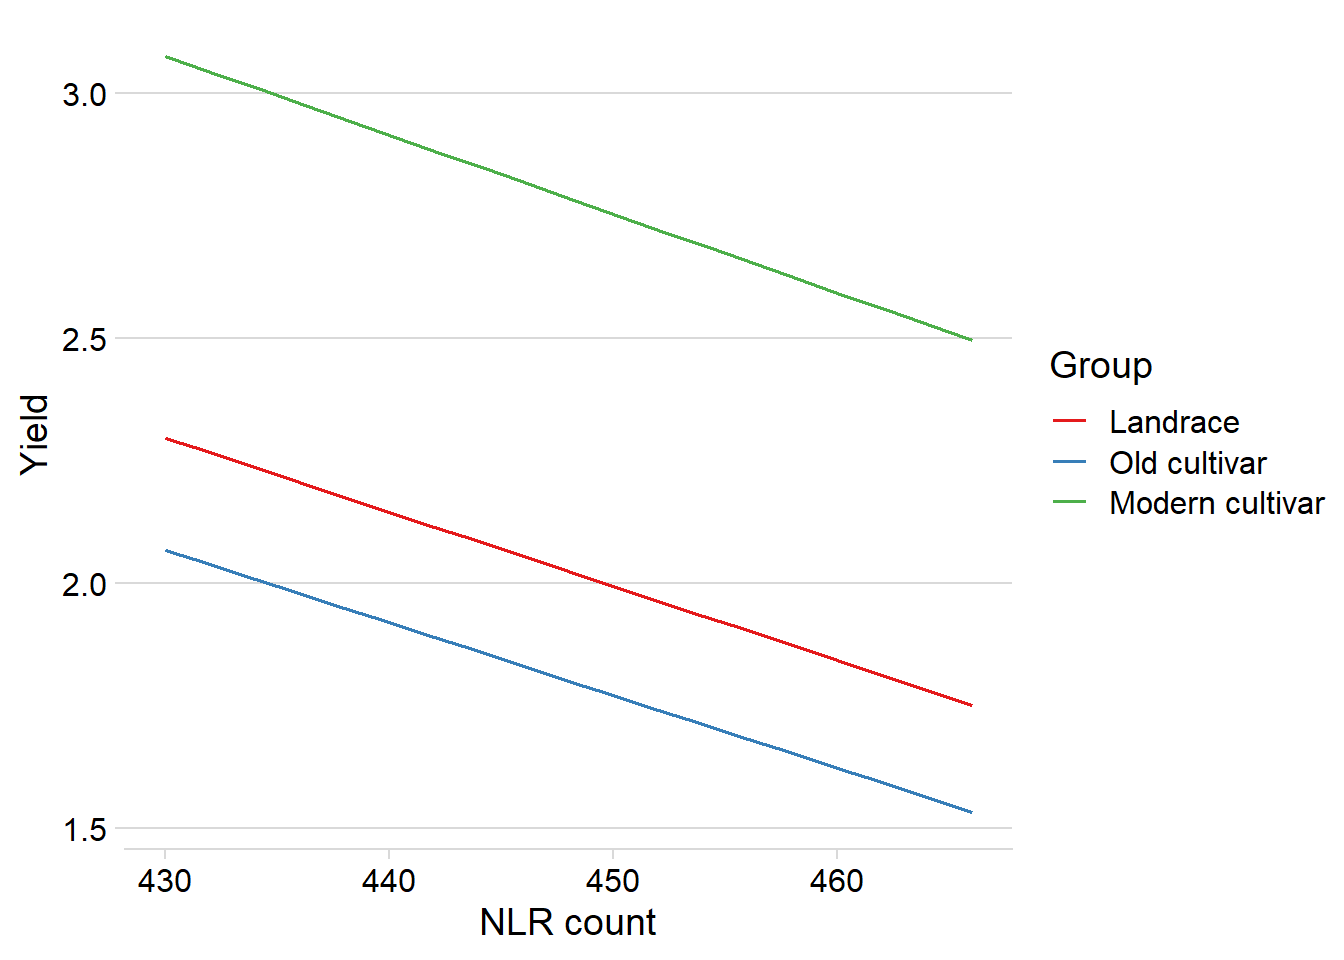
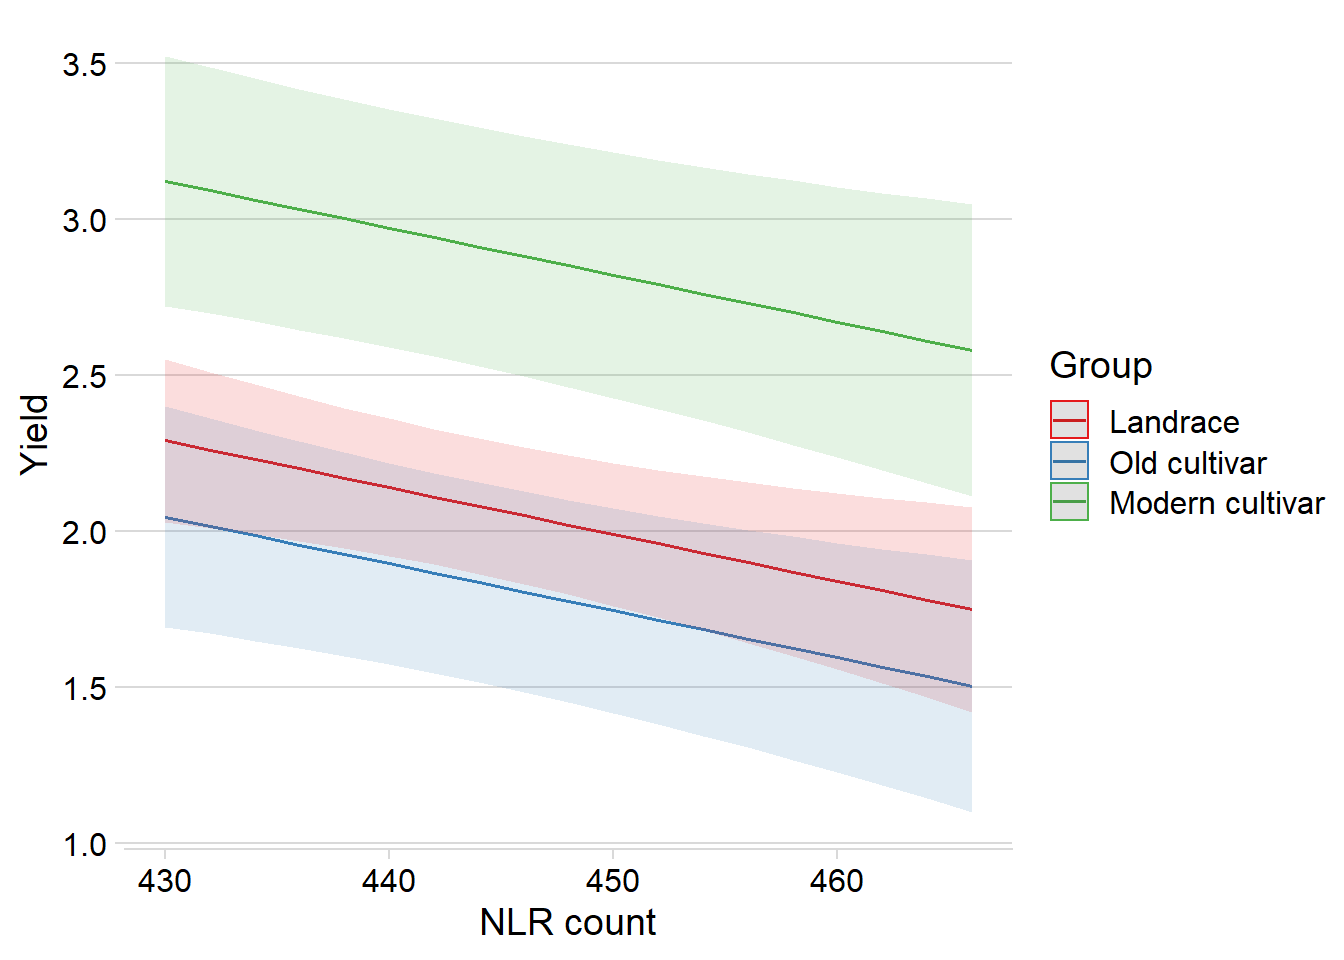
Build site.

diff --git a/docs/yield_link.html b/docs/yield_link.html
@@ -504,16 +504,16 @@ This reproducible <a href="http://rmarkdown.rstudio.com">R Markdown</a> analysis
 <div class="panel panel-default">
 <div class="panel-heading">
 <p class="panel-title">
-<a data-toggle="collapse" data-parent="#workflowr-checks" href="#strongRepositoryversionstrongahrefhttpsgithubcomphilippbayerRgeneanalysistreef0a5bdbe656458a75b326fc0e9ed465edf1c0d73targetblankf0a5bdba"> <span class="glyphicon glyphicon-ok text-success" aria-hidden="true"></span> <strong>Repository version:</strong> <a href="https://github.com/philippbayer/R_gene_analysis/tree/f0a5bdbe656458a75b326fc0e9ed465edf1c0d73" target="_blank">f0a5bdb</a> </a>
+<a data-toggle="collapse" data-parent="#workflowr-checks" href="#strongRepositoryversionstrongahrefhttpsgithubcomphilippbayerRgeneanalysistreeb8b60b1c21cd45444b2d0876b5ceecb692608199targetblankb8b60b1a"> <span class="glyphicon glyphicon-ok text-success" aria-hidden="true"></span> <strong>Repository version:</strong> <a href="https://github.com/philippbayer/R_gene_analysis/tree/b8b60b1c21cd45444b2d0876b5ceecb692608199" target="_blank">b8b60b1</a> </a>
 </p>
 </div>
[2 lines of base64/hex data omitted]
 <div class="panel-body">
 <p>
 Great! You are using Git for version control. Tracking code development and connecting the code version to the results is critical for reproducibility.
 </p>
 <p>
-The results in this page were generated with repository version <a href="https://github.com/philippbayer/R_gene_analysis/tree/f0a5bdbe656458a75b326fc0e9ed465edf1c0d73" target="_blank">f0a5bdb</a>. See the <em>Past versions</em> tab to see a history of the changes made to the R Markdown and HTML files.
+The results in this page were generated with repository version <a href="https://github.com/philippbayer/R_gene_analysis/tree/b8b60b1c21cd45444b2d0876b5ceecb692608199" target="_blank">b8b60b1</a>. See the <em>Past versions</em> tab to see a history of the changes made to the R Markdown and HTML files.
 </p>
 <p>
 Note that you need to be careful to ensure that all relevant files for the analysis have been committed to Git prior to generating the results (you can use <code>wflow_publish</code> or <code>wflow_git_commit</code>). workflowr only checks the R Markdown file, but you know if there are other scripts or data files that it depends on. Below is the status of the Git repository when the results were generated:
@@ -601,6 +601,40 @@ Message
 </tr>
 </thead>
 <tbody>
+<tr>
+<td>
+Rmd
+</td>
+<td>
+<a href="https://github.com/philippbayer/R_gene_analysis/blob/b8b60b1c21cd45444b2d0876b5ceecb692608199/analysis/yield_link.Rmd" target="_blank">b8b60b1</a>
+</td>
+<td>
+Philipp Bayer
+</td>
+<td>
+2020-11-18
+</td>
+<td>
+Add StrengeJacke plots
+</td>
+</tr>
+<tr>
+<td>
+html
+</td>
+<td>
+<a href="https://rawcdn.githack.com/philippbayer/R_gene_analysis/fb8bbfb6325075e2652df0b9c34e26d3654f8348/docs/yield_link.html" target="_blank">fb8bbfb</a>
+</td>
+<td>
+Philipp Bayer
+</td>
+<td>
+2020-11-18
+</td>
+<td>
+Build site.
+</td>
+</tr>
 <tr>
 <td>
 Rmd
@@ -2134,10 +2168,24 @@ qqline(resid(mixed.lmer))</code></pre>
 <pre class="r"><code>detach(&quot;package:lmerTest&quot;, unload=TRUE)
 
 yield_country_nbs_joined_groups_renamed &lt;- yield_country_nbs_joined_groups
-names(yield_country_nbs_joined_groups_renamed) &lt;- c(&#39;names&#39;, &#39;presences.x&#39;, &#39;PI-ID&#39;, &#39;Group&#39;, &#39;presences2&#39;, &#39;presences.y&#39;, &#39;Yield&#39;, &#39;Yield2&#39;, &#39;Country&#39;)
-mixed.lmer &lt;- lmer(Yield ~ presences.x + Group + (1|Country), data=yield_country_nbs_joined_groups_renamed)
-
-dwplot(mixed.lmer,
+names(yield_country_nbs_joined_groups_renamed) &lt;- c(&#39;names&#39;, &#39;Count&#39;, &#39;PI-ID&#39;, &#39;Group&#39;, &#39;presences2.x&#39;, &#39;presences.y&#39;, &#39;Yield&#39;, &#39;Yield2.x&#39;, &#39;Country&#39;)
+mixed.lmer &lt;- lmer(Yield ~ `Count` + Group + (1|Country), data=yield_country_nbs_joined_groups_renamed)
+yield_country_nbs_joined_groups_renamed</code></pre>
+<pre><code># A tibble: 741 x 9
+   names Count `PI-ID` Group presences2.x[,1] presences.y Yield Yield2.x[,1]
+   &lt;chr&gt; &lt;dbl&gt; &lt;chr&gt;   &lt;fct&gt;            &lt;dbl&gt;       &lt;dbl&gt; &lt;dbl&gt;        &lt;dbl&gt;
+ 1 AB-01   445 PI4580~ Land~           -0.119         445  1.54      -0.774 
+ 2 AB-02   454 PI6037~ Land~            1.35          454  1.3       -1.06  
+ 3 For     448 PI5486~ Mode~            0.371         448  3.34       1.40  
+ 4 HN001   448 PI5186~ Mode~            0.371         448  3.54       1.64  
+ 5 HN005   440 PI4041~ Land~           -0.935         440  2.15      -0.0366
+ 6 HN006   448 PI4077~ Land~            0.371         448  2.06      -0.145 
+ 7 HN007   442 PI4242~ Land~           -0.609         442  1.64      -0.653 
+ 8 HN008   439 PI4376~ Land~           -1.10          439  2.51       0.399 
+ 9 HN009   445 PI4950~ Land~           -0.119         445  1.85      -0.399 
+10 HN010   447 PI4689~ Land~            0.207         447  2.8        0.749 
+# ... with 731 more rows, and 1 more variable: Country &lt;chr&gt;</code></pre>
+<pre class="r"><code>dwplot(mixed.lmer,
        vline = geom_vline(xintercept = 0, colour = &quot;grey60&quot;, linetype = 2))</code></pre>
 <p><img src="figure/yield_link.Rmd/unnamed-chunk-73-1.png" width="672" style="display: block; margin: auto;" /></p>
 <pre class="r"><code>library(stargazer)
@@ -2151,7 +2199,7 @@ stargazer(mixed.lmer, type = &quot;text&quot;,
                      -----------------------------
                                  Yield            
 --------------------------------------------------
-presences.x                    -0.015**           
+Count                          -0.015**           
                                 (0.006)           
                                                   
 GroupOld cultivar               -0.245            
@@ -2171,46 +2219,151 @@ Bayesian Inf. Crit.            1714.779
 ==================================================
 Note:                *p&lt;0.05; **p&lt;0.01; ***p&lt;0.001</code></pre>
 <pre class="r"><code>library(ggeffects)
-ggpredict(mixed.lmer, terms = c(&quot;presences.x&quot;,  &#39;Group&#39;), type = &quot;re&quot;) %&gt;% 
+ggpredict(mixed.lmer, terms = c(&quot;Count&quot;,  &#39;Group&#39;), type = &quot;re&quot;) %&gt;% 
    plot() +
    theme_minimal_hgrid() +
-  xlab(&#39;NLR count&#39;) +  theme(plot.title=element_blank())</code></pre>
+   xlab(&#39;NLR count&#39;) +  
+   theme(plot.title=element_blank())</code></pre>
 <p><img src="figure/yield_link.Rmd/unnamed-chunk-75-1.png" width="672" style="display: block; margin: auto;" /></p>
-<pre class="r"><code>mixed.lmer &lt;- lmer(Yield ~ presences.x + (presences.x|Group) + (1|Country), data=yield_country_nbs_joined_groups_renamed)
-summary(mixed.lmer)</code></pre>
-<pre><code>Linear mixed model fit by REML [&#39;lmerMod&#39;]
-Formula: Yield ~ presences.x + (presences.x | Group) + (1 | Country)
-   Data: yield_country_nbs_joined_groups_renamed
-
-REML criterion at convergence: 1679.5
-
-Scaled residuals: 
-     Min       1Q   Median       3Q      Max 
--3.08887 -0.56698  0.03087  0.65972  2.89927 
-
-Random effects:
- Groups   Name        Variance  Std.Dev.  Corr 
- Country  (Intercept) 2.590e-01 0.5089558      
- Group    (Intercept) 6.794e-01 0.8242671      
-          presences.x 4.472e-07 0.0006687 -1.00
- Residual             5.206e-01 0.7215562      
-Number of obs: 741, groups:  Country, 40; Group, 3
-
-Fixed effects:
-             Estimate Std. Error t value
-(Intercept)  9.088288   2.507413   3.625
-presences.x -0.015366   0.005566  -2.761
-
-Correlation of Fixed Effects:
-            (Intr)
-presences.x -0.991
-convergence code: 0
-boundary (singular) fit: see ?isSingular</code></pre>
-<pre class="r"><code>ggpredict(mixed.lmer, terms = c(&quot;presences.x&quot;,  &#39;Group&#39;), type = &quot;re&quot;) %&gt;% 
-   plot() +
-   theme_minimal_hgrid() +
-  xlab(&#39;NLR count&#39;) +  theme(plot.title=element_blank())</code></pre>
+<pre class="r"><code>library(sjPlot)
+plot_model(mixed.lmer, data=yield_country_nbs_joined_groups_renamed) +
+  theme_minimal_hgrid()</code></pre>
+<p><img src="figure/yield_link.Rmd/unnamed-chunk-76-1.png" width="672" style="display: block; margin: auto;" /></p>
+<pre class="r"><code>plot_model(mixed.lmer, type = &quot;pred&quot;, terms = c(&quot;Count&quot;, &quot;Group&quot;)) +
+  theme_minimal_hgrid() +
+  xlab(&#39;NLR count&#39;) + 
+  theme(plot.title=element_blank())</code></pre>
 <p><img src="figure/yield_link.Rmd/unnamed-chunk-77-1.png" width="672" style="display: block; margin: auto;" /></p>
+<pre class="r"><code>tab_model(mixed.lmer)</code></pre>
+<table style="border-collapse:collapse; border:none;">
+<tr>
+<th style="border-top: double; text-align:center; font-style:normal; font-weight:bold; padding:0.2cm;  text-align:left; ">
+ 
+</th>
+<th colspan="3" style="border-top: double; text-align:center; font-style:normal; font-weight:bold; padding:0.2cm; ">
+Yield
+</th>
+</tr>
+<tr>
+<td style=" text-align:center; border-bottom:1px solid; font-style:italic; font-weight:normal;  text-align:left; ">
+Predictors
+</td>
+<td style=" text-align:center; border-bottom:1px solid; font-style:italic; font-weight:normal;  ">
+Estimates
+</td>
+<td style=" text-align:center; border-bottom:1px solid; font-style:italic; font-weight:normal;  ">
+CI
+</td>
+<td style=" text-align:center; border-bottom:1px solid; font-style:italic; font-weight:normal;  ">
+p
+</td>
+</tr>
+<tr>
+<td style=" padding:0.2cm; text-align:left; vertical-align:top; text-align:left; ">
+(Intercept)
+</td>
+<td style=" padding:0.2cm; text-align:left; vertical-align:top; text-align:center;  ">
+8.76
+</td>
+<td style=" padding:0.2cm; text-align:left; vertical-align:top; text-align:center;  ">
+3.93 – 13.59
+</td>
+<td style=" padding:0.2cm; text-align:left; vertical-align:top; text-align:center;  ">
+<strong>&lt;0.001
+</td>
+</tr>
+<tr>
+<td style=" padding:0.2cm; text-align:left; vertical-align:top; text-align:left; ">
+Count
+</td>
+<td style=" padding:0.2cm; text-align:left; vertical-align:top; text-align:center;  ">
+-0.02
+</td>
+<td style=" padding:0.2cm; text-align:left; vertical-align:top; text-align:center;  ">
+-0.03 – -0.00
+</td>
+<td style=" padding:0.2cm; text-align:left; vertical-align:top; text-align:center;  ">
+<strong>0.007</strong>
+</td>
+</tr>
+<tr>
+<td style=" padding:0.2cm; text-align:left; vertical-align:top; text-align:left; ">
+Group [Old cultivar]
+</td>
+<td style=" padding:0.2cm; text-align:left; vertical-align:top; text-align:center;  ">
+-0.24
+</td>
+<td style=" padding:0.2cm; text-align:left; vertical-align:top; text-align:center;  ">
+-0.51 – 0.02
+</td>
+<td style=" padding:0.2cm; text-align:left; vertical-align:top; text-align:center;  ">
+0.067
+</td>
+</tr>
+<tr>
+<td style=" padding:0.2cm; text-align:left; vertical-align:top; text-align:left; ">
+Group [Modern cultivar]
+</td>
+<td style=" padding:0.2cm; text-align:left; vertical-align:top; text-align:center;  ">
+0.83
+</td>
+<td style=" padding:0.2cm; text-align:left; vertical-align:top; text-align:center;  ">
+0.47 – 1.19
+</td>
+<td style=" padding:0.2cm; text-align:left; vertical-align:top; text-align:center;  ">
+<strong>&lt;0.001
+</td>
+</tr>
+<tr>
+<td colspan="4" style="font-weight:bold; text-align:left; padding-top:.8em;">
+Random Effects
+</td>
+</tr>
+<tr>
+<td style=" padding:0.2cm; text-align:left; vertical-align:top; text-align:left; padding-top:0.1cm; padding-bottom:0.1cm;">
+σ<sup>2</sup>
+</td>
+<td style=" padding:0.2cm; text-align:left; vertical-align:top; padding-top:0.1cm; padding-bottom:0.1cm; text-align:left;" colspan="3">
+0.52
+</td>
+<tr>
+<td style=" padding:0.2cm; text-align:left; vertical-align:top; text-align:left; padding-top:0.1cm; padding-bottom:0.1cm;">
+τ<sub>00</sub> <sub>Country</sub>
+</td>
+<td style=" padding:0.2cm; text-align:left; vertical-align:top; padding-top:0.1cm; padding-bottom:0.1cm; text-align:left;" colspan="3">
+0.26
+</td>
+<tr>
+<td style=" padding:0.2cm; text-align:left; vertical-align:top; text-align:left; padding-top:0.1cm; padding-bottom:0.1cm;">
+ICC
+</td>
+<td style=" padding:0.2cm; text-align:left; vertical-align:top; padding-top:0.1cm; padding-bottom:0.1cm; text-align:left;" colspan="3">
+0.33
+</td>
+<tr>
+<td style=" padding:0.2cm; text-align:left; vertical-align:top; text-align:left; padding-top:0.1cm; padding-bottom:0.1cm;">
+N <sub>Country</sub>
+</td>
+<td style=" padding:0.2cm; text-align:left; vertical-align:top; padding-top:0.1cm; padding-bottom:0.1cm; text-align:left;" colspan="3">
+40
+</td>
+<tr>
+<td style=" padding:0.2cm; text-align:left; vertical-align:top; text-align:left; padding-top:0.1cm; padding-bottom:0.1cm; border-top:1px solid;">
+Observations
+</td>
+<td style=" padding:0.2cm; text-align:left; vertical-align:top; padding-top:0.1cm; padding-bottom:0.1cm; text-align:left; border-top:1px solid;" colspan="3">
+741
+</td>
+</tr>
+<tr>
+<td style=" padding:0.2cm; text-align:left; vertical-align:top; text-align:left; padding-top:0.1cm; padding-bottom:0.1cm;">
+Marginal R<sup>2</sup> / Conditional R<sup>2</sup>
+</td>
+<td style=" padding:0.2cm; text-align:left; vertical-align:top; padding-top:0.1cm; padding-bottom:0.1cm; text-align:left;" colspan="3">
+0.070 / 0.378
+</td>
+</tr>
+</table>
 <br>
 <p>
 <button type="button" class="btn btn-default btn-workflowr btn-workflowr-sessioninfo" data-toggle="collapse" data-target="#workflowr-sessioninfo" style="display: block;">
@@ -2253,7 +2406,7 @@ loaded via a namespace (and not attached):
  [19] xml2_1.3.2          codetools_0.2-16    splines_3.6.3      
  [22] knitr_1.29          sjmisc_2.8.5        polyclip_1.10-0    
  [25] jsonlite_1.7.1      nloptr_1.2.1        broom_0.5.6        
- [28] dbplyr_1.4.4        effectsize_0.3.0    mapproj_1.2.7      
+ [28] dbplyr_1.4.4        effectsize_0.4.0    mapproj_1.2.7      
  [31] compiler_3.6.3      httr_1.4.2          sjstats_0.18.0     
  [34] emmeans_1.4.5       backports_1.1.10    assertthat_0.2.1   
  [37] cli_2.0.2           later_1.1.0.1       tweenr_1.0.1       
